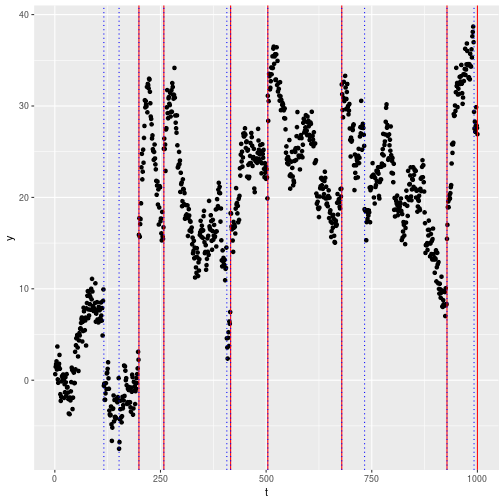
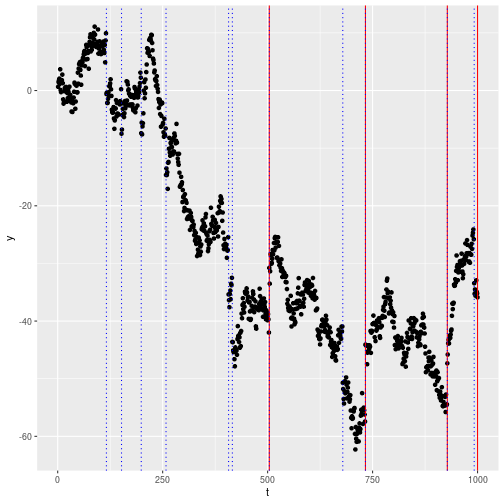
improved the .MD file

diff --git a/src/fpopmain.cpp b/src/fpopmain.cpp
@@ -76,9 +76,6 @@ vector<int> FPOPmain (vector<double> &y, double &l0penalty, double &l2penalty, d
     
   }
   
-  cout << "tau vector is" << endl;
-  for (auto& t:taus) {cout << t << " ";}; cout << endl; 
-  
   /*
   std::vector<double> mins(Q.size());
   transform(Q.begin(), Q.end(), mins.begin(), [](quad& q){return get<0>(getminimum(q));});

diff --git a/README.tex.md b/README.tex.md
@@ -148,6 +148,44 @@ We plot again the results:
 
 ![plot of chunk plot2](figure/plot2-1.png)
 
+### An autoregressive example
+
+We consider the autoregressive models with jumps:
+
+$$
+Y_t - \mu_t = \gamma (Y_{t-1} - \mu_{t - 1}) + \epsilon_t
+$$
+with $\epsilon_t \sim N(0, \sigma^2)$.
+
+We will now generate an AR model. The function `dataAR` was designed to do so. It takes as arguments:
+
+- the length of the sequence of observations,
+- a poisson parameter regulating the probability of seeing a jump,
+- the average magnitude of a change,
+- the starting value $y_0$ for the sequence,
+- the $\sigma$ and the $\gamma$.
+
+
+```r
+set.seed(42)
+Y = dataAR(n = 1e3, poisParam = 0.01, meanGap = 10, y0 = 10, gamma = .95, sd = 1)
+y = Y[["y"]]
+```
+
+And again, run the algorithm, specifying the now added gamma parameter:
+
+
+```r
+res = l2fpop(y, l0penalty = 2 * .7^2 * log(length(y)), l2penalty = (.95^2) / (2 * 1^2), gamma = .95)
+
+ggplot(data.frame(t = 1:length(y), y), aes(x = t, y = y)) +
+  geom_point() +
+  geom_vline(xintercept = res[["changepoints"]], color = 2) +
+  geom_vline(xintercept = Y[["cp"]], col = 4,  lty = 3)
+```
+
+![plot of chunk unnamed-chunk-4](figure/unnamed-chunk-4-1.png)
+
 ### Isotonic regression
 
 This implementation can also perfom isotonic regression case. Using a different constraint function ($Q^{\leq}(\mu)$), we are now able to pick only up changes. We change the parameter (type) which defines the type of constraint we're using.
